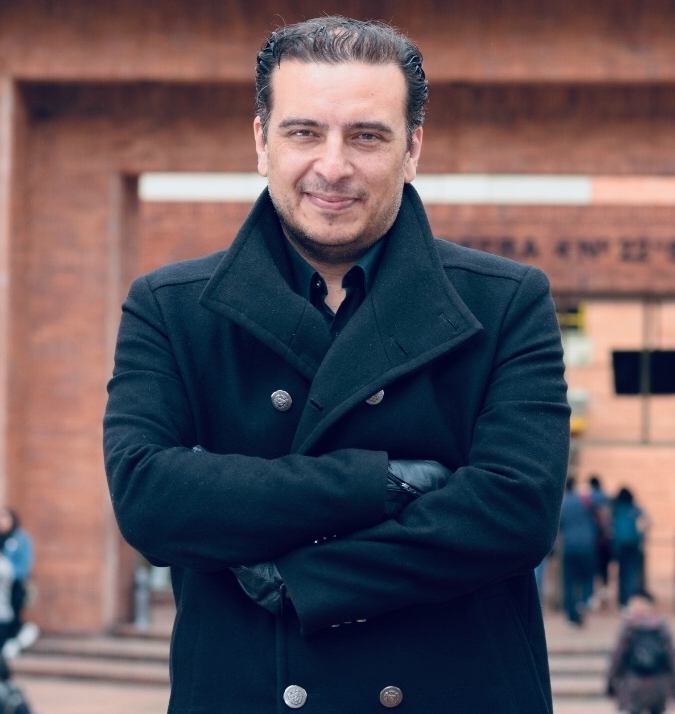
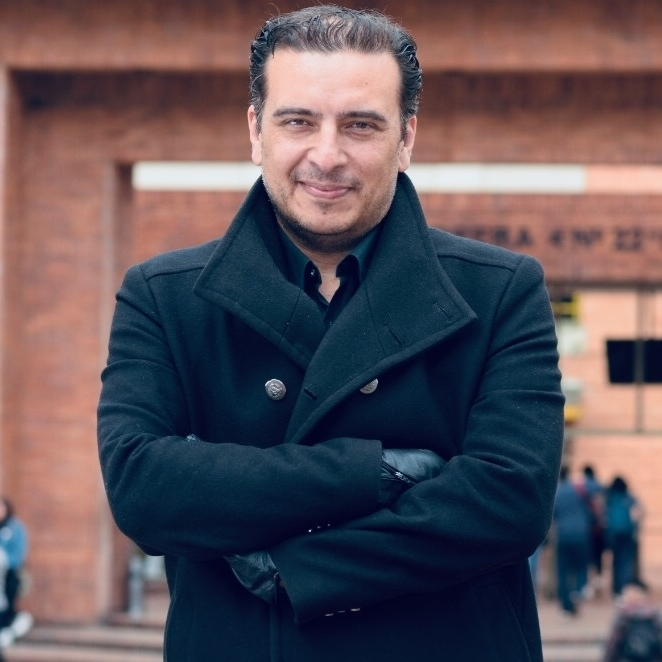
Acerca de

diff --git a/core/templates/acerca_de.html b/core/templates/acerca_de.html
@@ -18,12 +18,12 @@
             <!-- [ stiped-table ] start -->
             <div class="col-xl-12">
                 <div class="card">
-                    <div class="card-body" style="background-image: linear-gradient(to bottom,#ffffff80, #00bcd4D9);"
+                    <div class="card-body" style="background-image: linear-gradient(to bottom,#ffffff80, #73b4ff);"
                         align="center">
                         <h1 style="color:#001233;">S-mood</h1>
                         <h4 style="color:#ffffff;">Software de planeación estratégica</h4>
                     </div>
-                    <div class="card-body" style="background-image: linear-gradient(to right, #001233, #00bcd4D9);">
+                    <div class="card-body" style="background-image: linear-gradient(to right, #001233, #73b4ff);">
                         <div class="row">
                             <div class="container">
                                 <div class="row">
@@ -53,11 +53,11 @@
             </div>
         </div>
         <div class="card">
-            <div div class="card-body" style="background-image: linear-gradient(to bottom,#ffffff80, #00bcd4D9);"
+            <div div class="card-body" style="background-image: linear-gradient(to bottom,#ffffff80, #73b4ff);"
                 align="center">
                 <h1 class="animated fadeInLeft" style="border: none; box-shadow: none;">Nuestro Equipo</h1>
             </div>
-            <div class="card-body" style="background-image: linear-gradient(to right, #001233, #00bcd4D9);">
+            <div class="card-body" style="background-image: linear-gradient(to right, #001233, #73b4ff);">
                 <div class="row">
                     <div class="container">
                         <div class="row blog">
@@ -70,31 +70,31 @@
                                         <div class="carousel-item active">
                                             <div class="row">
                                                 <div class="col-md-3">
-                                                    <a href="#">
-                                                        <img src="/static/assets/images/Vladimir.jpg" alt="Image"
-                                                            style="max-width:100%;"width="250" height="230">                                                            
-                                                    </a>
+
+                                                    <img src="/static/assets/images/vladimir.jpg" alt="Image"
+                                                        style="max-width:100%;" width="250" height="250">
+
                                                     <h4 style="color: white;" align="center">Vladimir Sánchez</h4>
                                                 </div>
                                                 <div class="col-md-3">
-                                                    <a href="#">
-                                                        <img src="/static/assets/images/Catherine.jpg" alt="Image"
-                                                            style="max-width:100%;" width="250" height="230">
-                                                    </a>
+
+                                                    <img src="/static/assets/images/catherine.jpg" alt="Image"
+                                                        style="max-width:100%;" width="250" height="250">
+
                                                     <h4 style="color: white;" align="center">Catherine Suárez</h4>
                                                 </div>
                                                 <div class="col-md-3">
-                                                    <a href="#">
-                                                        <img src="/static/assets/images/Olmer.jpg" alt="Image"
-                                                            style="max-width:100%;" width="250" height="230">
-                                                    </a>                                                    
+
+                                                    <img src="/static/assets/images/olmer.jpg" alt="Image"
+                                                        style="max-width:100%;" width="250" height="250">
+
                                                     <h4 style="color: white;" align="center">Olmer García</h4>
                                                 </div>
                                                 <div class="col-md-3">
-                                                    <a href="#">
-                                                        <img src="/static/assets/images/Jairo.jpg" alt="Image"
-                                                            style="max-width:100%;"width="250" height="230">
-                                                    </a>
+
+                                                    <img src="/static/assets/images/jairo.jpg" alt="Image"
+                                                        style="max-width:100%;" width="250" height="250">
+
                                                     <h4 style="color: white;" align="center">Jairo Sojo</h4>
                                                 </div>
                                             </div>

diff --git a/core/settings.py b/core/settings.py
@@ -21,7 +21,7 @@ SECRET_KEY = config('SECRET_KEY', default='S#perS3crEt_1122')
 DEBUG = config('DEBUG', default=True)
 
 # load production server from .env
-ALLOWED_HOSTS = ['localhost', '127.0.0.1', config('SERVER', default='127.0.0.1')]
+ALLOWED_HOSTS = ['localhost', '127.0.0.1','150.136.241.89', config('SERVER', default='127.0.0.1')]
 
 # Application definition
 
